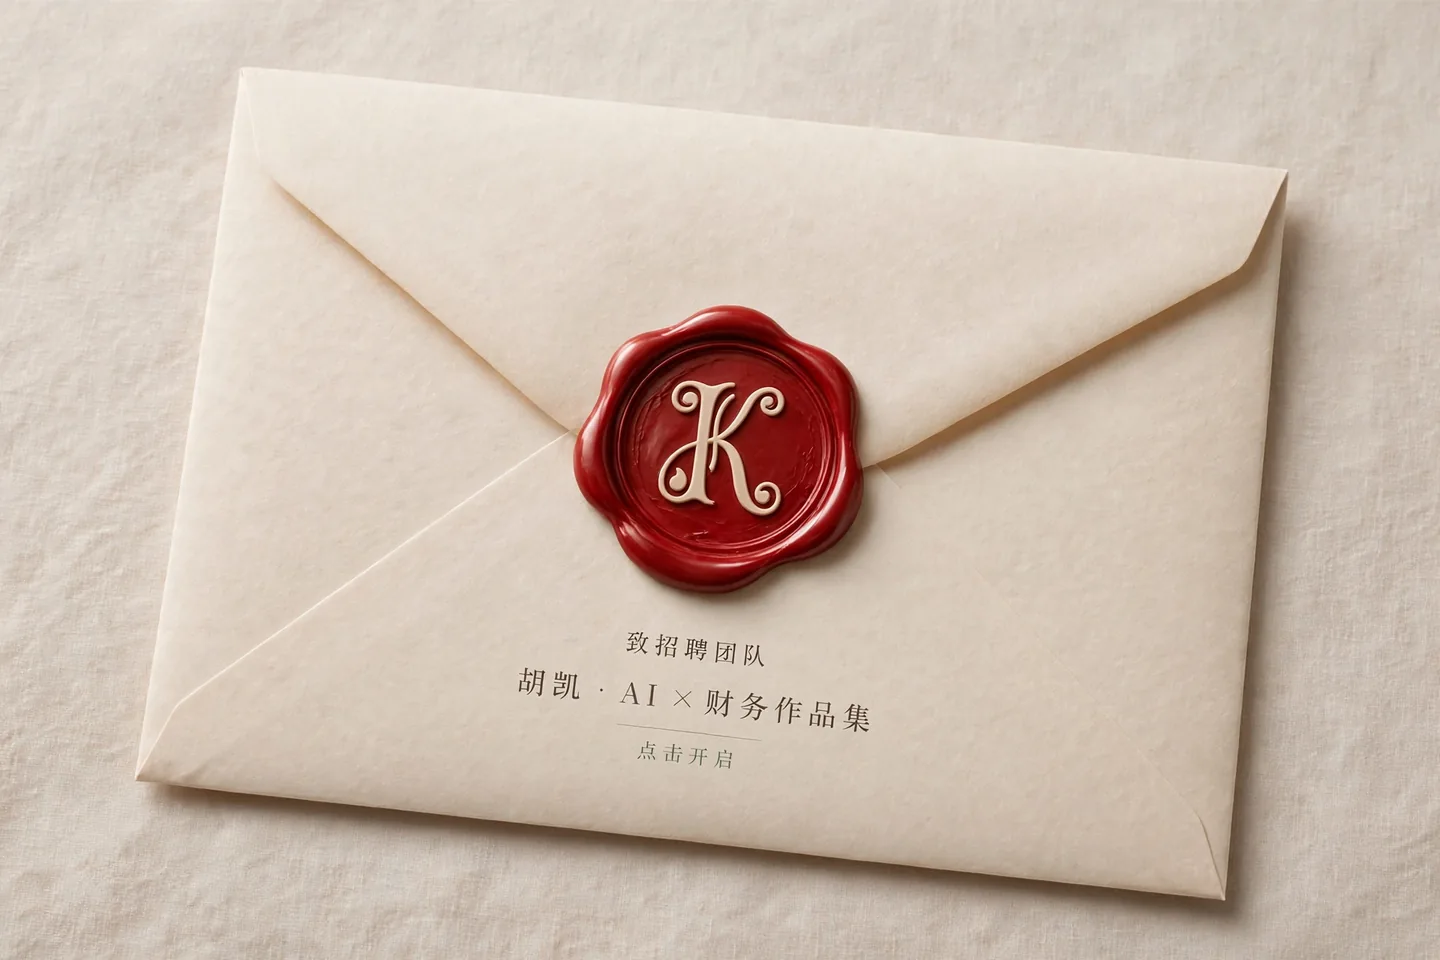
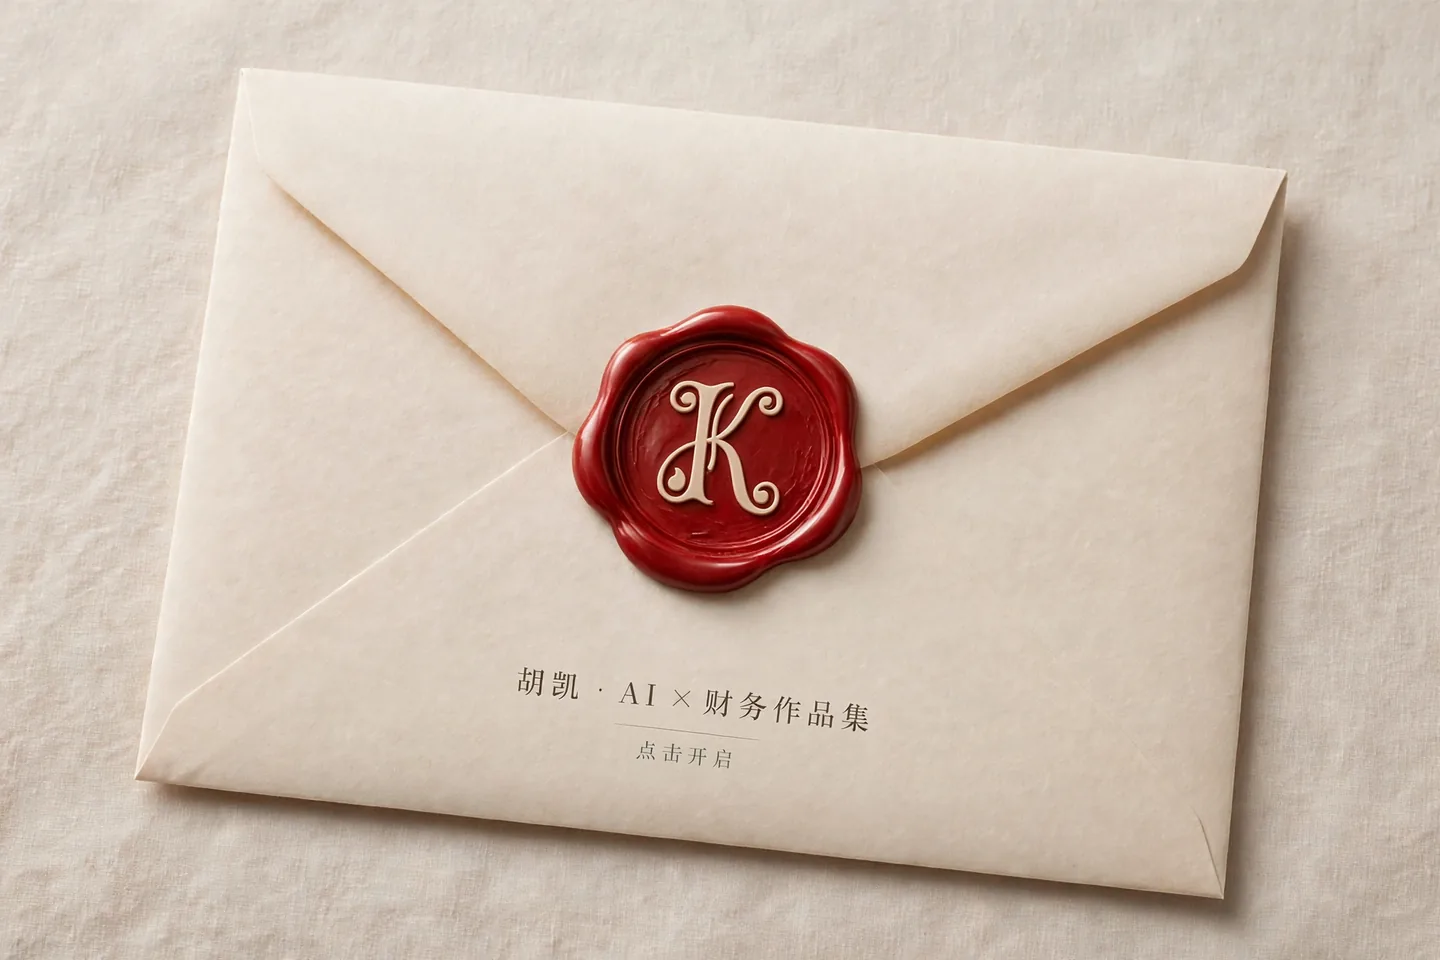
Make the cover fullscreen with a visible two-stage letter extraction
Replace the cover with the supplied v3 WebP, unchanged: 1440x960, 76,702 bytes, SHA-256 892a878d01d0f9c9ac58733a8ea86133bd216932fca283c9274adec0850aca3a. Use 100vw/100dvh object-fit:cover, a measured linen backdrop and focal positioning that keeps the seal and both printed lines visible at the tested phone sizes.

Show a clear two-second sequence: the actual letter rises through an aperture for roughly 1.1 seconds while the envelope stays still; then the image moves down and the letter unfolds to its original position. Temporarily move the existing node into an inert presentation layer, restore the same node on completion or interruption, and retain direct reading, no-JS, reduced motion, session memory, keyboard support and image-error fallback. Printing, resize and pagehide also restore the letter.

Change only the requested neutral wording: one letter, remove the recruiting eyebrow, focus areas and a neutral greeting. Bump footer/style cache to v7.19. Other letter text, figures, disclosures, sources, contacts, photo dimensions, embedded cases, tool links and all demo logic/data are unchanged.

Validation: 102 local browser checks, including stage-specific motion, real-node/content restoration, 13 viewport/fullscreen/crop checks for seal and text visibility, interruption at three timestamps, print/rotation/history fallbacks, exact photo sizes, one-page A4, unchanged tool scenario controls and byte-identical source delivery.

diff --git a/index.html b/index.html
@@ -25,7 +25,7 @@
     
 
     <link rel="stylesheet" href="assets/app.css">
-    <link rel="stylesheet" href="assets/home-letter.css?v=718">
+    <link rel="stylesheet" href="assets/home-letter.css?v=719">
 
 
 
@@ -41,6 +41,7 @@
       <img class="envelope-cover" id="envelopeCover" src="assets/envelope-cover.webp" alt="" width="1440" height="960" decoding="async" fetchpriority="high">
     </button>
   </div>
+  <div class="envelope-extraction" id="envelopeExtraction" aria-hidden="true" inert></div>
   <a class="envelope-skip letter-link" id="envelopeSkip" href="#letter">直接阅读</a>
 </dialog>
 <script>
@@ -52,6 +53,8 @@
   var motion = window.matchMedia('(prefers-reduced-motion: reduce)');
   var storageKey = 'portfolio-letter-opened';
   var opening = false, timer = null;
+  var movingLetter = null, letterMarker = null;
+  var extraction = document.getElementById('envelopeExtraction');
   function remember() { try { sessionStorage.setItem(storageKey, '1'); } catch (e) {} }
   try { if (sessionStorage.getItem(storageKey) === '1') return; } catch (e) { return; }
   if (motion.matches) { remember(); return; }
@@ -60,6 +63,12 @@
     if (!cover.open) return;
     clearTimeout(timer);
     remember();
+    if (movingLetter) {
+      movingLetter.classList.remove('envelope-moving-letter');
+      if (letterMarker && letterMarker.parentNode) letterMarker.replaceWith(movingLetter);
+      movingLetter = null;
+      letterMarker = null;
+    }
     cover.close();
     cover.hidden = true;
     document.documentElement.classList.remove('envelope-active', 'envelope-opening');
@@ -68,13 +77,23 @@
   }
   function openLetter() {
     if (opening) return;
+    var letter = document.getElementById('letter');
+    if (!letter) { finish(); return; }
+    var rect = letter.getBoundingClientRect();
+    extraction.style.setProperty('--letter-width', rect.width + 'px');
+    extraction.style.setProperty('--letter-top', rect.top + 'px');
+    letterMarker = document.createComment('letter-home-position');
+    letter.before(letterMarker);
+    movingLetter = letter;
+    letter.classList.add('envelope-moving-letter');
+    extraction.appendChild(letter);
     opening = true;
     remember();
     button.disabled = true;
     cover.classList.add('is-opening');
     document.documentElement.classList.add('envelope-opening');
     // CSS performs the motion; the timer only guarantees dismissal if no event fires.
-    timer = setTimeout(finish, 1100);
+    timer = setTimeout(finish, 2150);
   }
   image.addEventListener('error', finish);
   if (image.complete && image.naturalWidth === 0) return;
@@ -82,13 +101,15 @@
   button.addEventListener('click', openLetter);
   document.getElementById('envelopeSkip').addEventListener('click', function (event) { event.preventDefault(); finish(); });
   cover.addEventListener('cancel', function (event) { event.preventDefault(); finish(); });
-  cover.addEventListener('transitionend', function (event) {
-    if (opening && event.target === cover && event.propertyName === 'opacity') finish();
+  cover.addEventListener('animationend', function (event) {
+    if (opening && event.target === cover && event.animationName === 'envelope-finish') finish();
   });
   function reduceMotion(event) { if (event.matches) finish(); }
   if (motion.addEventListener) motion.addEventListener('change', reduceMotion);
   else if (motion.addListener) motion.addListener(reduceMotion);
   window.addEventListener('beforeprint', finish);
+  window.addEventListener('resize', function () { if (opening) finish(); });
+  window.addEventListener('pagehide', function () { if (opening) finish(); });
   try {
     cover.hidden = false;
     cover.showModal();
@@ -98,7 +119,7 @@
 </script>
 <a class="letter-skip" href="#letter">跳到正文</a>
 <header class="letter-nav-shell">
-  <a class="letter-nav-name" href="#letter">一封求职信</a>
+  <a class="letter-nav-name" href="#letter">一封信</a>
   <nav class="letter-nav" id="nav" aria-label="信件导航">
     <a href="#works">作品</a><a href="#about">履历</a><a href="#contact">联系</a>
   </nav>
@@ -106,16 +127,15 @@
 <main class="letter" id="letter" tabindex="-1">
   <header class="letter-heading">
     <div class="letter-heading-copy">
-      <p class="letter-eyebrow">致招聘团队</p>
       <h1>胡凯 <span>· AI × 财务作品集</span></h1>
       <p class="letter-education">2027 届 · 金融与投资（专业会计）硕士 ｜ 精算学本科（辅修金融）</p>
-      <p class="letter-direction">求职方向：资金管理 · 财务管培 · 金融管培 · AI 财务</p>
+      <p class="letter-direction">关注方向：资金管理 · 财务管培 · 金融管培 · AI 财务</p>
     </div>
     <img class="letter-photo" src="assets/avatar.jpg" alt="胡凯本人照片" width="92" height="112" decoding="async" fetchpriority="high">
   </header>
 
   <section class="letter-opening" aria-label="信的开头">
-    <p class="letter-salutation">招聘团队，您好：</p>
+    <p class="letter-salutation">你好：</p>
     <p>我是胡凯，2027 届金融与投资（专业会计）硕士在读，拥有精算学（辅修金融）本科背景。我关注企业资金与财务分析，希望从融资、现金流到风险量化与 AI 应用，把业务规则落到可交互、可复核的工具中。</p>
     <p>在 smart 汽车（奔驰 × 吉利）集团资金部，我参与贷款授信、提款与贷后流程，以及现金头寸核对与跨境结算。</p>
     <p>在中审众环（Mazars），我编制审计底稿、执行函证与凭证测试，并用 Python / SQL 做多科目交叉核验。</p>
@@ -255,7 +275,7 @@
   <footer class="letter-footer">
     <p class="letter-disclosure">说明：本页作品均来自实习中的观察与个人尝试，<b>未在公司业务中投入使用</b>；数据为公开数据与构造的演示数据，不含真实客户信息。</p>
     <p class="letter-disclosure">借鉴职责分离与独立复核原则，不等同于银行模型风险管理中的独立模型验证，也不代表监管意义上的审批。</p>
-    <p class="letter-version">胡凯 · AI × Finance Portfolio · v7.18 · 全部数据经人工核验 · 2026.10 · AI 协作方法探索</p>
+    <p class="letter-version">胡凯 · AI × Finance Portfolio · v7.19 · 全部数据经人工核验 · 2026.10 · AI 协作方法探索</p>
   </footer>
 </main>
 

diff --git a/assets/home-letter.css b/assets/home-letter.css
@@ -27,38 +27,56 @@ html.envelope-active, html.envelope-active body { overflow: hidden; }
 #letter:focus { outline: none; }
 .letter-envelope[hidden], .letter-envelope:not([open]) { display: none !important; }
 .letter-envelope {
-  position: fixed; inset: 0; width: 100%; height: 100vh; height: 100dvh;
-  max-width: none; max-height: none; margin: 0; padding: 32px;
-  display: grid; place-items: center; overflow: hidden; border: 0;
-  background: #d0c4b9; color: var(--ink); opacity: 1;
-  font: inherit; text-align: center;
-  transition: opacity .4s ease .6s;
+  position: fixed; inset: 0; width: 100vw; height: 100vh; height: 100dvh;
+  max-width: none; max-height: none; margin: 0; padding: 0;
+  display: block; overflow: hidden; border: 0;
+  background: #cfc4b8; color: var(--ink); opacity: 1;
+  font: inherit;
 }
 .letter-envelope::backdrop { background: transparent; }
-.envelope-stage { width: min(720px, 100%, calc(150vh - 144px)); }
+.envelope-stage, .envelope-open { width: 100%; height: 100%; }
 .envelope-open {
-  position: relative; display: block; width: 100%; padding: 0; border: 0;
+  position: relative; display: block; padding: 0; border: 0;
   background: transparent; color: inherit; font: inherit; cursor: pointer;
   -webkit-tap-highlight-color: transparent;
 }
 .letter-home .envelope-open:focus-visible { outline: none; }
-.letter-home .keyboard-navigation .envelope-open:focus-visible { outline: 2px solid var(--quiet); outline-offset: 4px; }
+.letter-home .keyboard-navigation .envelope-open:focus-visible { outline: 2px solid var(--quiet); outline-offset: -6px; }
 .envelope-open:disabled { opacity: 1; color: inherit; cursor: default; }
-.envelope-cover {
-  display: block; width: 100%; height: auto; aspect-ratio: 3 / 2;
-  transition: transform .7s cubic-bezier(.22,.65,.3,1) .1s, opacity .5s ease .25s;
+.letter-envelope .envelope-cover {
+  display: block; width: 100%; height: 100% !important; max-width: none !important;
+  object-fit: cover; object-position: 48% 60%;
 }
-.letter-envelope .envelope-skip { position: absolute; top: 28px; right: 32px; padding: 6px 0; font-size: 13px; color: var(--quiet); }
-.letter-envelope.is-opening { opacity: 0; }
-.is-opening .envelope-cover { transform: translateY(-7%) scale(.98); opacity: 0; }
-/* Reveal the existing letter itself; no second envelope or paper illustration. */
-html.envelope-active .letter {
-  opacity: 0; transform: translateY(72px) scale(.96, .94); transform-origin: center top;
-  transition: transform .85s cubic-bezier(.22,.65,.3,1) .1s, opacity .45s ease .35s;
+.letter-envelope .envelope-skip { position: absolute; z-index: 3; top: 28px; right: 32px; padding: 6px 0; font-size: 13px; color: var(--quiet); }
+/* The real letter slides through this aperture while the photo stays stationary. */
+.envelope-extraction { position: absolute; z-index: 2; inset: 0; overflow: hidden; pointer-events: none; clip-path: inset(0 0 64% 0); }
+.letter-envelope .envelope-moving-letter {
+  position: absolute; left: 50%; top: 36%; width: var(--letter-width); margin: 0;
+  text-align: start; transform: translateX(-50%) scale(.82); transform-origin: center top;
+  box-shadow: 0 8px 28px #29272326;
 }
-html.envelope-active.envelope-opening .letter { opacity: 1; transform: none; }
+.is-opening .envelope-extraction { animation: envelope-aperture 2s linear both; }
+.is-opening .envelope-moving-letter { animation: letter-extract 2s linear both; }
+.is-opening .envelope-cover { animation: envelope-slide-away 2s linear both; }
+.letter-envelope.is-opening { animation: envelope-finish 2s linear both; }
+@keyframes letter-extract {
+  0% { top: 36%; transform: translateX(-50%) scale(.82); animation-timing-function: cubic-bezier(.4,0,.2,1); }
+  52%, 58% { top: 6%; transform: translateX(-50%) scale(.82); animation-timing-function: cubic-bezier(.3,0,.2,1); }
+  100% { top: var(--letter-top); transform: translateX(-50%) scale(1); box-shadow: none; }
+}
+@keyframes envelope-aperture {
+  0%, 55% { clip-path: inset(0 0 64% 0); animation-timing-function: ease-in-out; }
+  100% { clip-path: inset(0); }
+}
+@keyframes envelope-slide-away {
+  0%, 55% { transform: translateY(0); opacity: 1; animation-timing-function: ease-in-out; }
+  100% { transform: translateY(105%); opacity: 0; }
+}
+@keyframes envelope-finish {
+  0%, 85% { opacity: 1; }
+  100% { opacity: 0; }
+}
 @media (max-width: 520px) {
-  .letter-envelope { padding: 0; }
   .letter-envelope .envelope-skip { top: 18px; right: 24px; }
 }
 .letter-home ::selection { color: var(--ink); background: #e7e1d8; }
